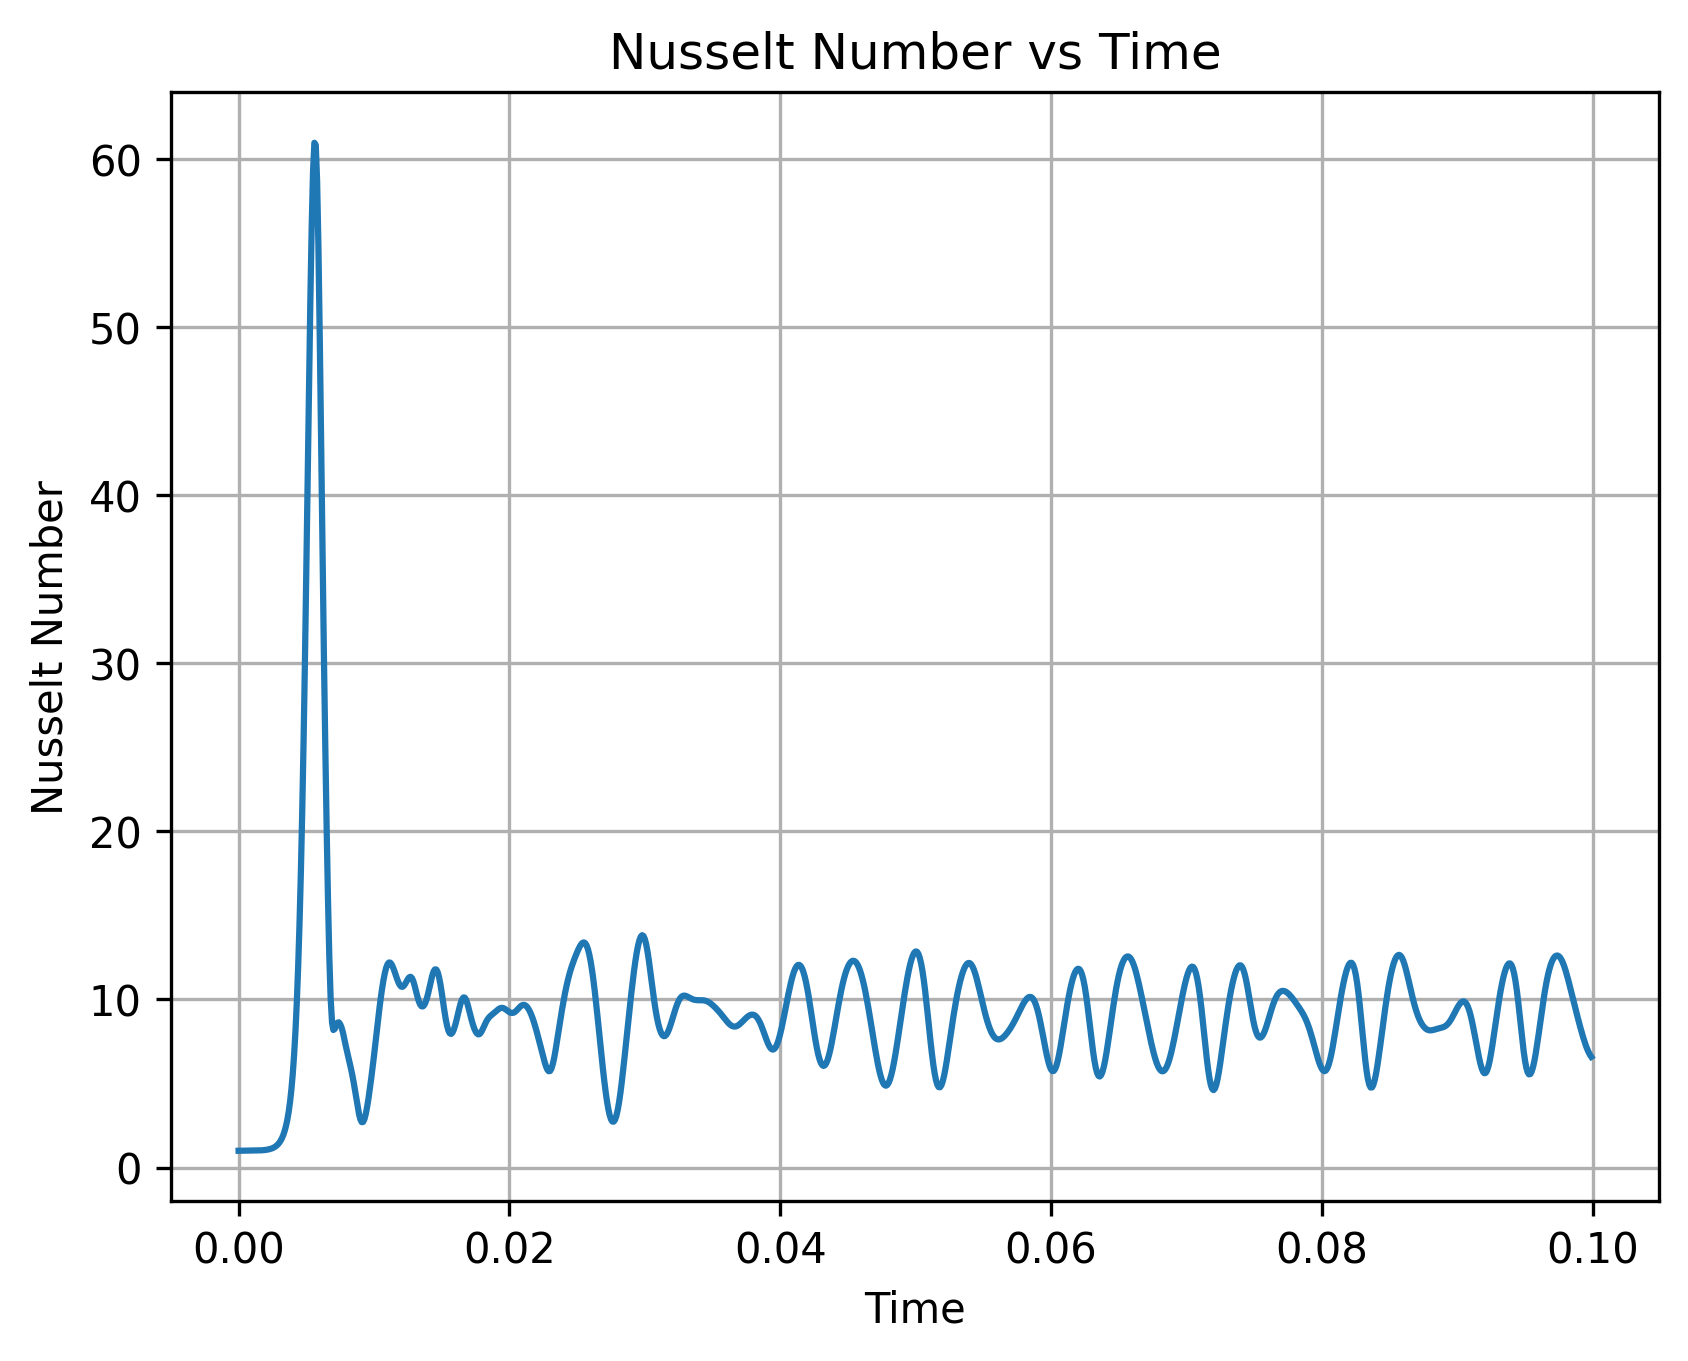
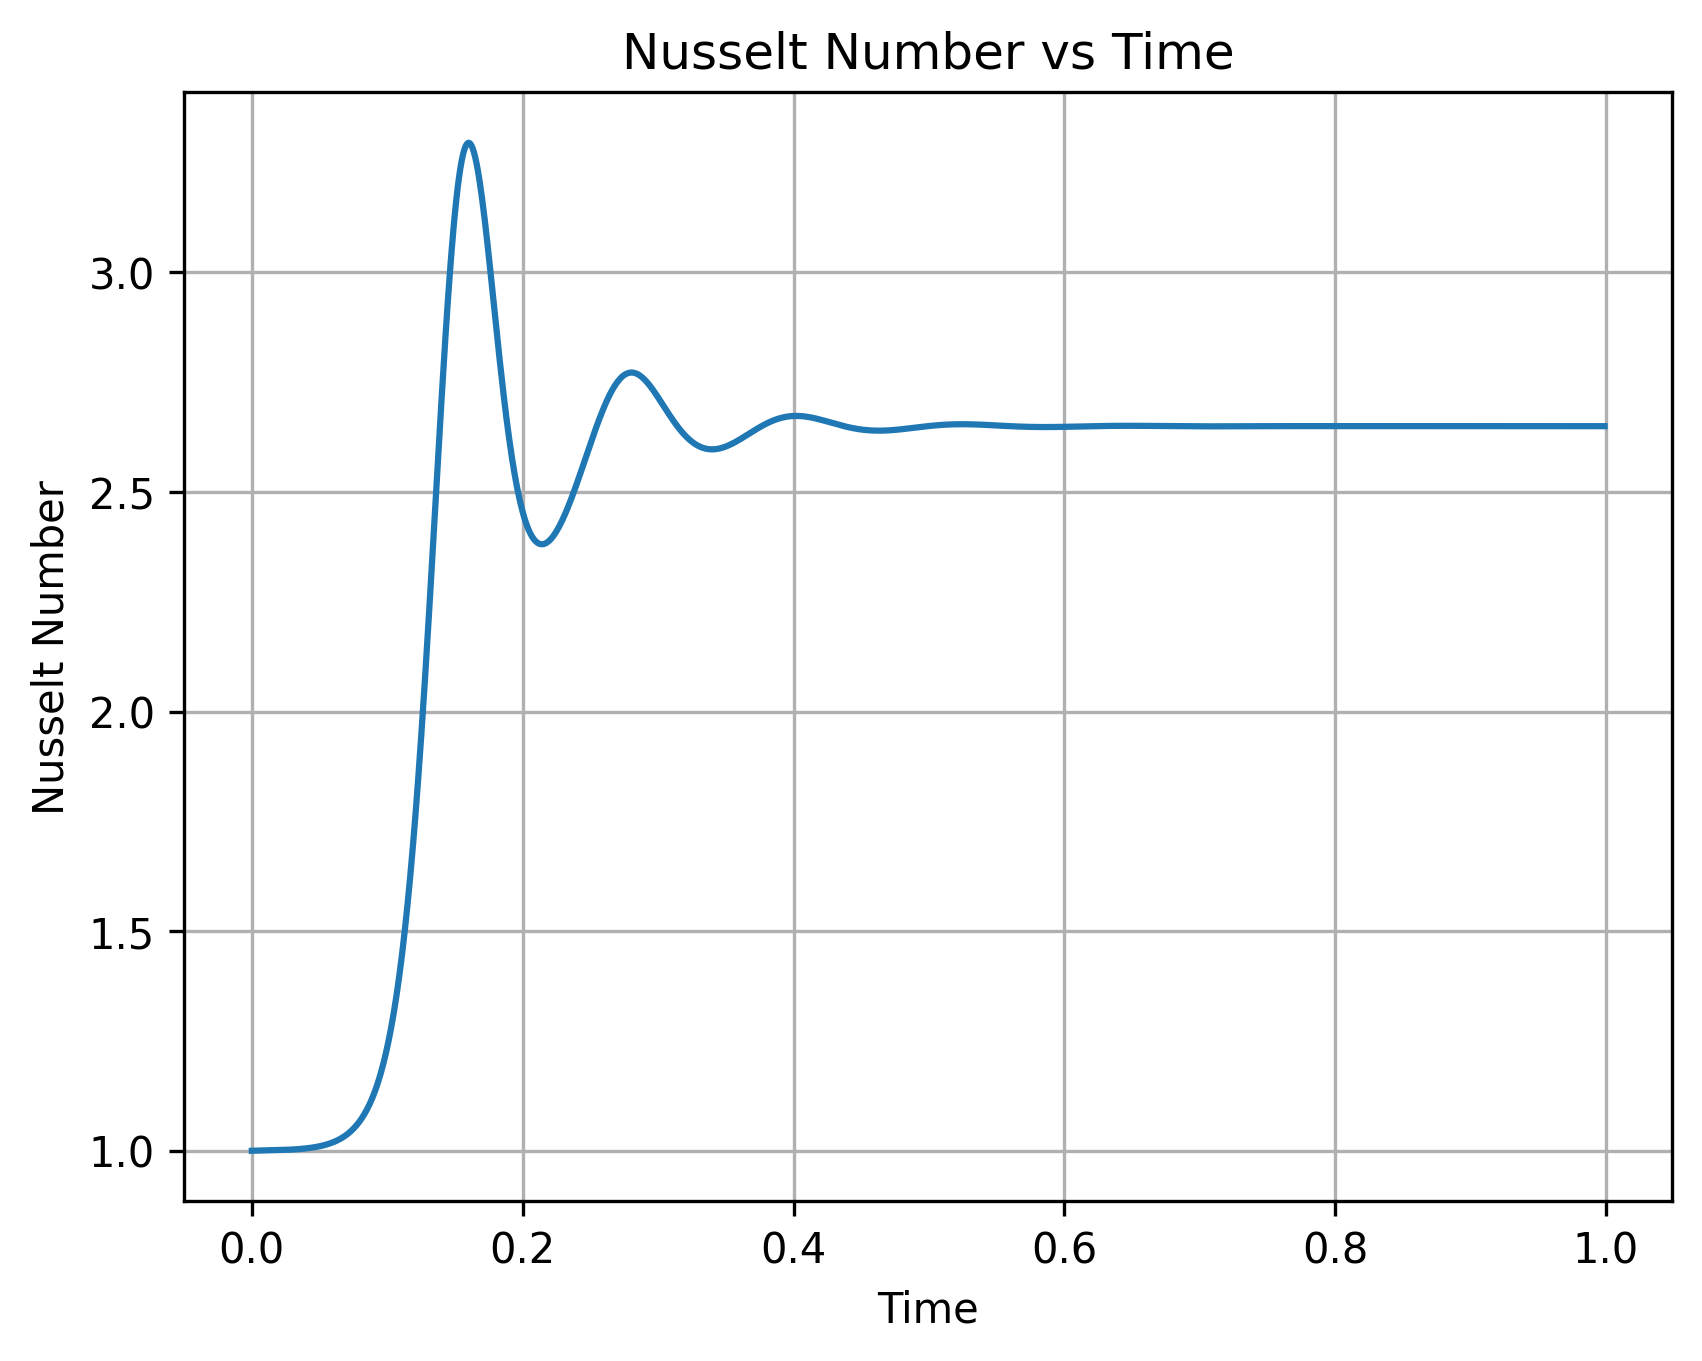
Updated code 21/07/26

diff --git a/Adjoint_Problems/Boussinesq_optimisation.py b/Adjoint_Problems/Boussinesq_optimisation.py
@@ -12,11 +12,12 @@ logger = logging.getLogger(__name__)
 # ---------------- Global Parameters ----------------
 Nx, Nz = 128, 32
 Lz = 1
-Rayleigh = 2e6
+Rayleigh = 2e4
 Prandtl = 1
 nu = (Rayleigh / Prandtl)**(-1/2)
-stop_sim_time = 1e-1
-max_timestep = 1e-5
+stop_sim_time = 1
+start_averaging_time = 5e-1  
+max_timestep = 1e-4
 dtype = np.float64
 timestepper = d3.RK222
 
@@ -75,11 +76,11 @@ def evaluate_objective_and_gradient(params):
     
     # Standard conductive profile initial conditions
     # Generate reproducible local random noise for each MPI rank
-    local_shape = x.shape
-    local_noise = np.random.RandomState(seed=42 + dist.comm.rank).uniform(-0.01, 0.01, size=local_shape)
+    #local_shape = x.shape
+    #local_noise = np.random.RandomState(seed=42 + dist.comm.rank).uniform(-0.01, 0.01, size=local_shape)
     
     # Apply noise in x, but restrict to boundaries in z
-    perturbation = local_noise * np.sin(np.pi * z)
+    perturbation = 0.01 * np.cos(2 * np.pi * x / L_val) * np.sin(np.pi * z)
     
     T['g'] = 1 - z + perturbation
     u['g'] = 0
@@ -131,11 +132,12 @@ def evaluate_objective_and_gradient(params):
         saved_dts.append(timestep)
         
         # Accumulate the time-averaged objective function safely
-        local_J_array = J_integrand.evaluate()['g']
-        # .flatten() safely extracts the scalar value regardless of array shape
-        local_J = local_J_array.flatten()[0] if local_J_array.size > 0 else 0.0
-        
-        J_val += local_J * timestep
+        if solver.sim_time > start_averaging_time:
+            local_J_array = J_integrand.evaluate()['g']
+            # .flatten() safely extracts the scalar value regardless of array shape
+            local_J = local_J_array.flatten()[0] if local_J_array.size > 0 else 0.0
+            
+            J_val += local_J * timestep
 
     if np.isnan(J_val) or np.isinf(J_val):
         logger.warning(f"Forward simulation diverged to NaN for L={L_val:.4f}. Rejecting step.")
@@ -242,7 +244,7 @@ if __name__ == "__main__":
     for i in range(max_iterations):
         logger.info(f"========== Iteration {i+1}/{max_iterations} ==========")
 
-        alpha = 0.01          # Learning rate (You may need to tune this higher or lower)
+        alpha = 0.1          # Learning rate (You may need to tune this higher or lower)
         
         # 1. Evaluate the system
         J_val, grad_array = evaluate_objective_and_gradient([L_current])

diff --git a/Adjoint_Problems/Boussinesq_objective_vs_width.py b/Adjoint_Problems/Boussinesq_objective_vs_width.py
@@ -12,7 +12,7 @@ logger = logging.getLogger(__name__)
 # ---------------- Global Parameters ----------------
 Nx, Nz = 128, 32
 Lz = 1
-Rayleigh = 2e6
+Rayleigh = 2e4
 Prandtl = 1
 
 stop_sim_time = 1e-1
@@ -74,9 +74,9 @@ def forward_problem(params):
     solver.stop_sim_time = stop_sim_time
     
     # Standard conductive profile initial conditions
-    local_shape = x.shape
-    local_noise = np.random.RandomState(seed=42 + dist.comm.rank).uniform(-0.01, 0.01, size=local_shape)
-    perturbation = local_noise * np.sin(np.pi * z)
+    #local_shape = x.shape
+    #local_noise = np.random.RandomState(seed=42 + dist.comm.rank).uniform(-0.01, 0.01, size=local_shape)
+    perturbation = 0.01 * np.cos(2 * np.pi * x / L_val) * np.sin(np.pi * z)
     
     T['g'] = 1 - z + perturbation
     u['g'] = 0